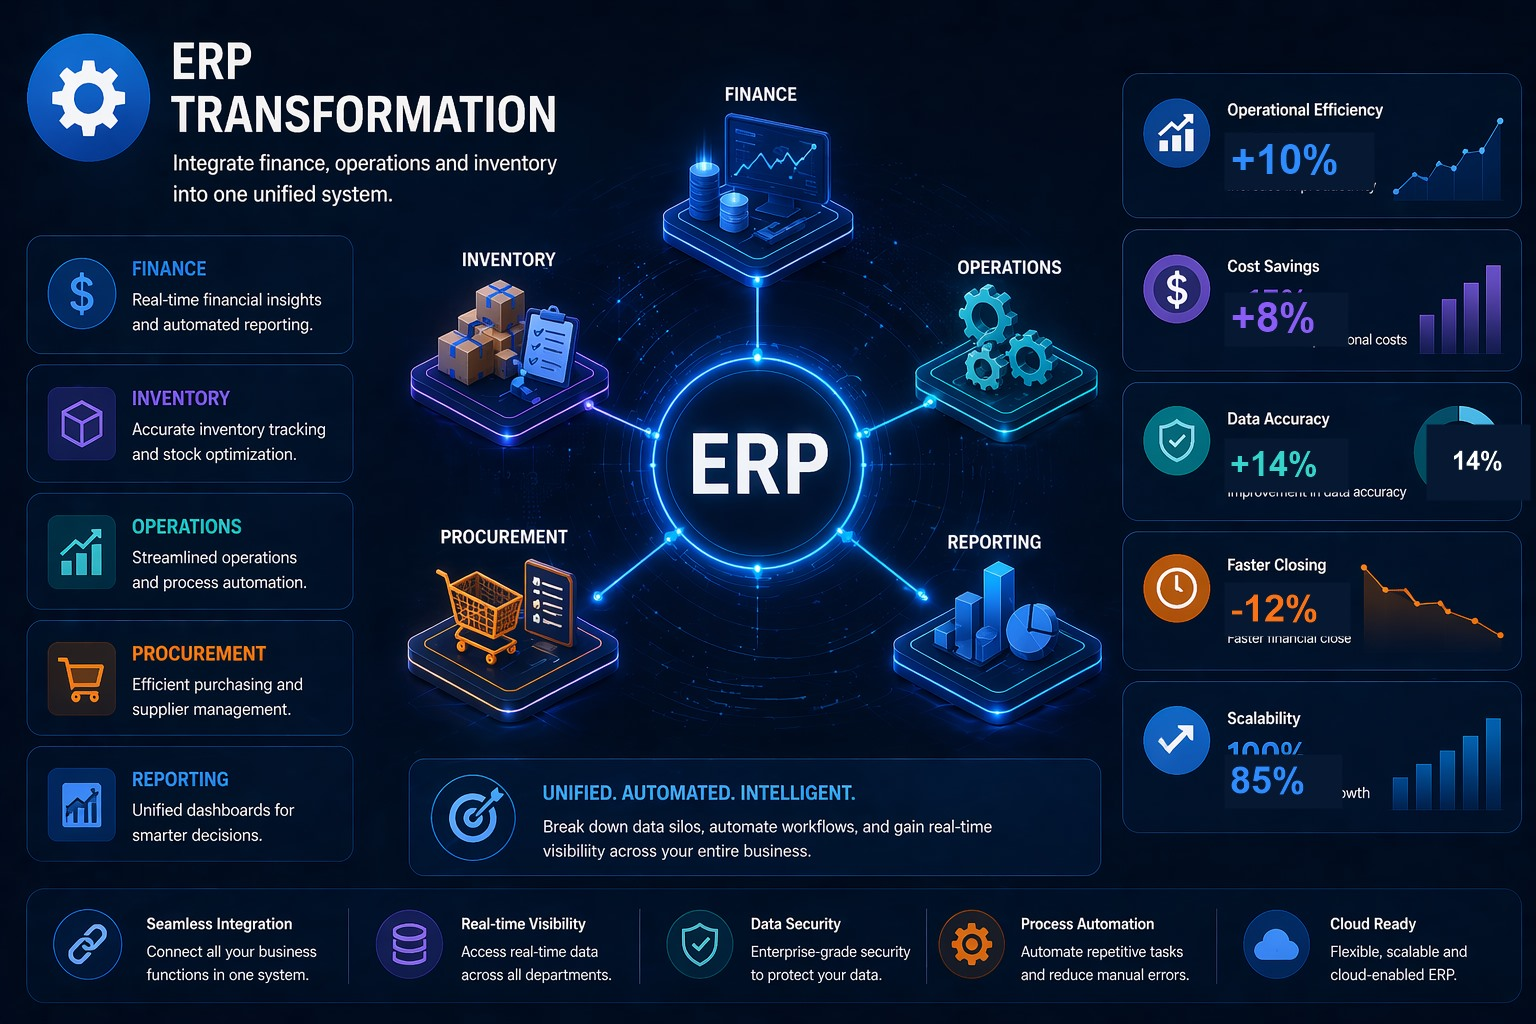
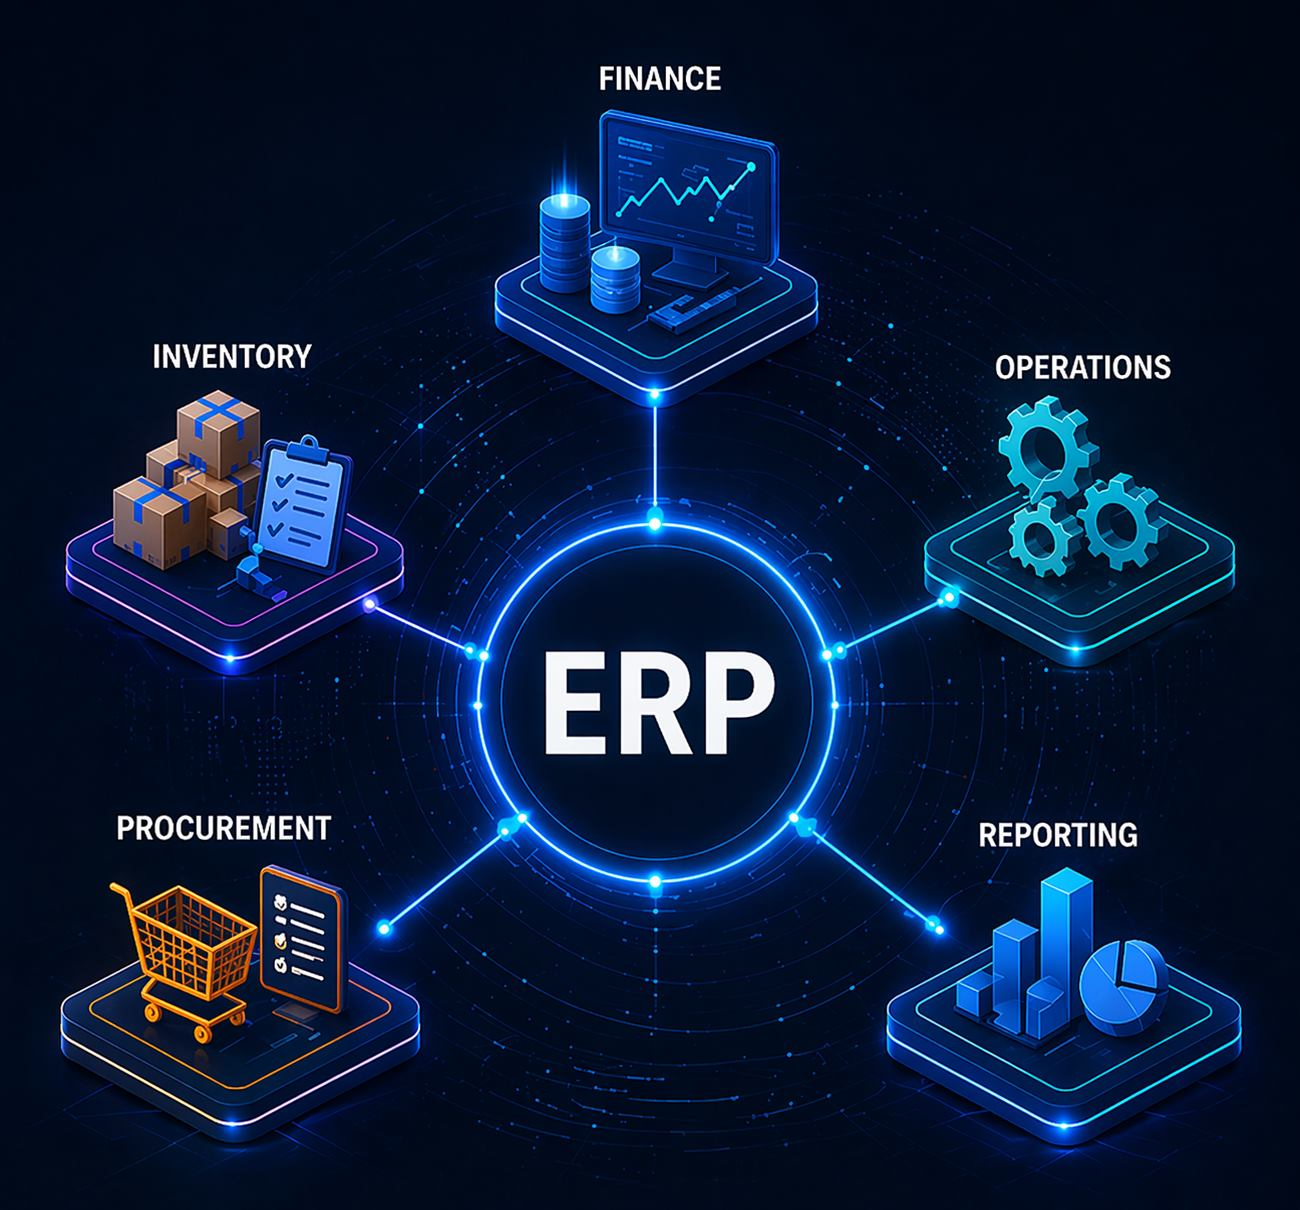
Update homepage carousel and footprint wording

diff --git a/src/pages/HomePage.jsx b/src/pages/HomePage.jsx
@@ -2,20 +2,22 @@ import { useState, useEffect } from 'react'
 import { Hero, FeatureCard, StepBar, IndustryCard, SectionHeading } from '../components/Common'
 import { homeFeatureCards, approachSteps, industrySummaryCards } from '../components/data'
 
-import transportImg from '../assets/transport.jpg'
-import analyticsImg from '../assets/data.jpg'
-import warehouseImg from '../assets/warehouse.jpg'
-import procurementImg from '../assets/procurement.jpg'
+import transportImg from '../assets/transport.png'
+import analyticsImg from '../assets/data.png'
 import erpImg from '../assets/erp.jpg'
+import industriesImg from '../assets/industries_weserve.png'
+import leanImg from '../assets/lean-materialmanagement.png'
+import solutionsImg from '../assets/our-solutions.png'
 import homepageOptimumLogo from '../assets/homepage-optimum-logo.jpg'
 
 export default function HomePage() {
   const solutionSlides = [
-    { title: 'Transport Optimization', image: transportImg },
     { title: 'Data Analytics', image: analyticsImg },
-    { title: 'Warehouse Optimization', image: warehouseImg },
-    { title: 'Procurement Systems', image: procurementImg },
     { title: 'ERP Transformation', image: erpImg },
+    { title: 'Industries We Serve', image: industriesImg },
+    { title: 'Lean Materials Management', image: leanImg },
+    { title: 'Our Solutions', image: solutionsImg },
+    { title: 'Transport Optimization', image: transportImg },
   ]
 
   const [activeSlide, setActiveSlide] = useState(0)
@@ -79,8 +81,6 @@ export default function HomePage() {
       <section className="section section-topless">
         <div className="container two-col-split proven-results-grid">
           <div className="glass-card image-panel">
-            <h2>Proven Results</h2>
-
             <div className={`solution-image-box ${isVisible ? 'fade-in' : 'fade-out'}`}>
               <img
                 src={solutionSlides[activeSlide].image}

diff --git a/src/styles.css b/src/styles.css
@@ -4559,3 +4559,14 @@ img {
     padding: 14px;
   }
 }
+
+/* Proven Results image carousel: show the full supplied artwork without cropping. */
+.proven-results-grid .solution-image-box {
+  background: #020b1b !important;
+  border: 1px solid rgba(255, 255, 255, 0.08);
+}
+
+.proven-results-grid .solution-image {
+  object-fit: contain !important;
+  object-position: center;
+}

diff --git a/src/pages/CaseStudiesPage.jsx b/src/pages/CaseStudiesPage.jsx
@@ -59,6 +59,7 @@ const africaFootprint = [
     country: 'South Africa',
     x: 50,
     y: 84,
+    status: 'Current active project market',
     industry: 'FMCG Distribution',
     solution: 'Route Optimization & ERP Visibility',
     result: '9% transport cost improvement',
@@ -67,6 +68,7 @@ const africaFootprint = [
     country: 'Zimbabwe',
     x: 56,
     y: 71,
+    status: 'Previous project delivery market',
     industry: 'Beverage & Warehouse Operations',
     solution: 'WMS and materials flow improvement',
     result: 'Improved stock accuracy and fulfilment control',
@@ -75,6 +77,7 @@ const africaFootprint = [
     country: 'Uganda',
     x: 59,
     y: 53,
+    status: 'Previous project delivery market',
     industry: 'Logistics & Regional Distribution',
     solution: 'Transport planning and delivery visibility',
     result: 'Better route control and service visibility',
@@ -83,6 +86,7 @@ const africaFootprint = [
     country: 'Namibia',
     x: 43,
     y: 76,
+    status: 'Previous project delivery market',
     industry: 'Cross-border Logistics',
     solution: 'Transport optimisation and reporting',
     result: 'Improved regional planning visibility',
@@ -176,7 +180,7 @@ export default function CaseStudiesPage() {
           <section className="africa-footprint-section">
             <div className="case-proof-heading footprint-heading">
               <h2>Our Footprint in Africa</h2>
-              <p>Delivering supply chain transformation across key African markets</p>
+              <p>Current active projects in South Africa, with previous delivery across key African markets</p>
             </div>
 
             <div className="africa-footprint-grid">
@@ -208,7 +212,7 @@ export default function CaseStudiesPage() {
               </div>
 
               <article className="footprint-detail-card">
-                <span className="footprint-kicker">Active projects & partnerships across</span>
+                <span className="footprint-kicker">{selectedCountry.status}</span>
                 <h3>{selectedCountry.country}</h3>
                 <dl>
                   <div>
@@ -224,7 +228,7 @@ export default function CaseStudiesPage() {
                     <dd>{selectedCountry.result}</dd>
                   </div>
                 </dl>
-                <p>Expanding across Africa - supporting regional supply chain transformation.</p>
+                <p>Supporting regional supply chain transformation through current active work and completed projects from previous years.</p>
               </article>
             </div>
           </section>